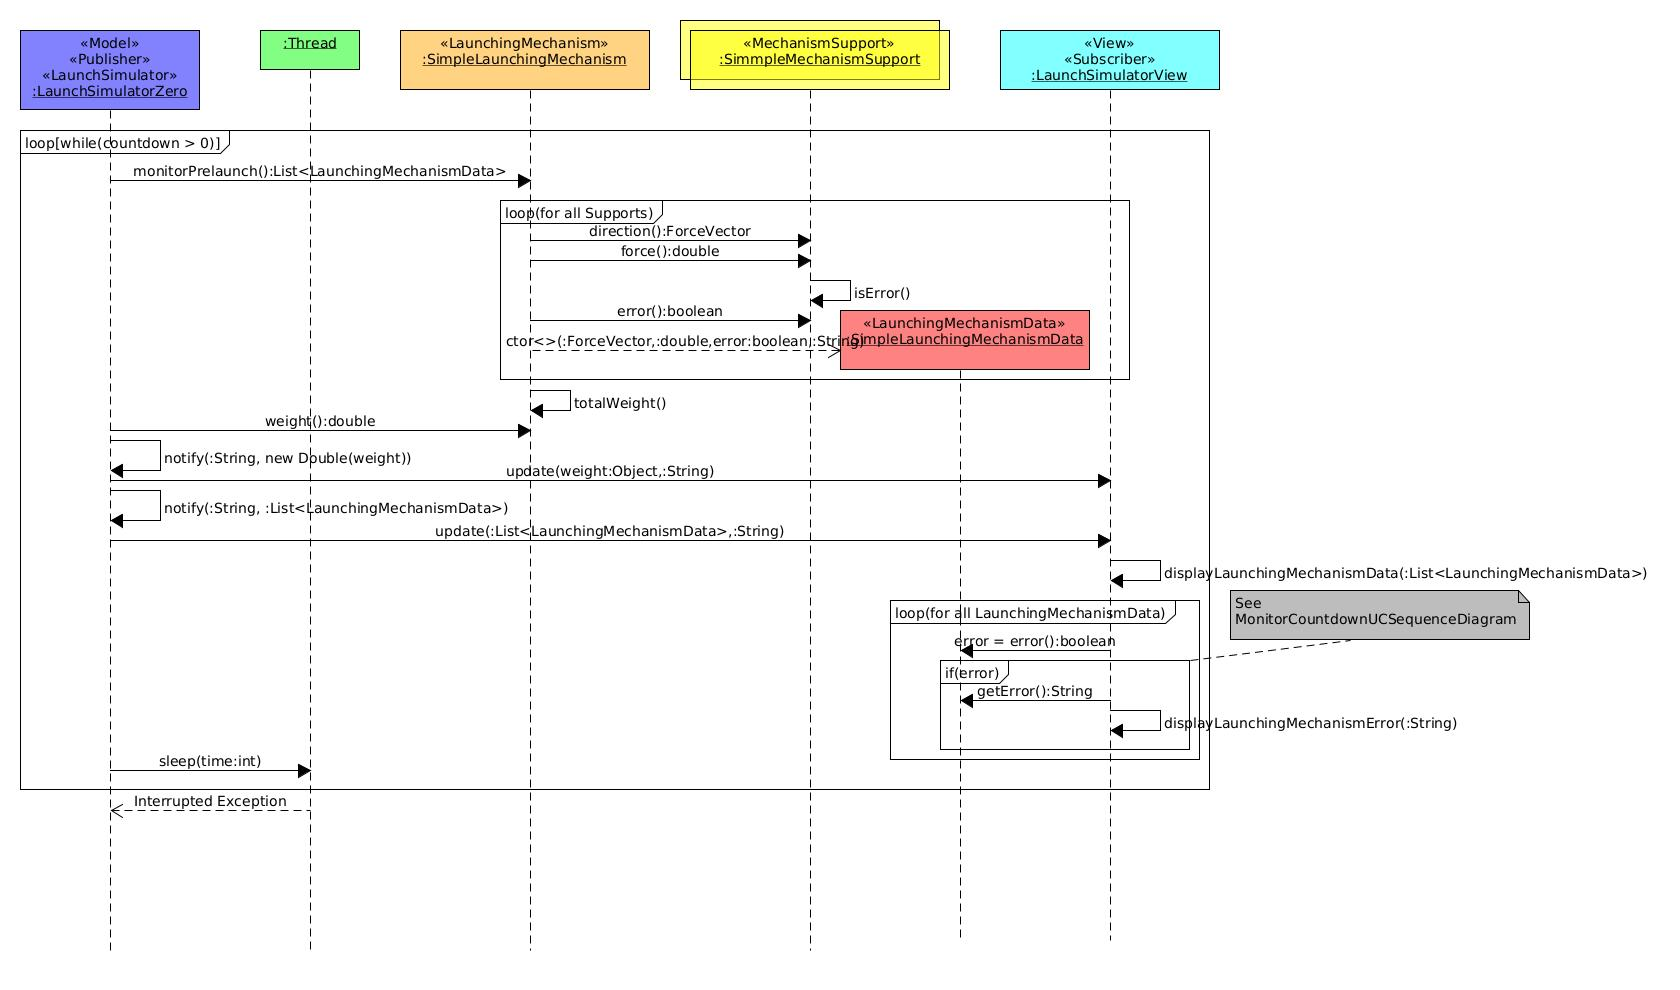
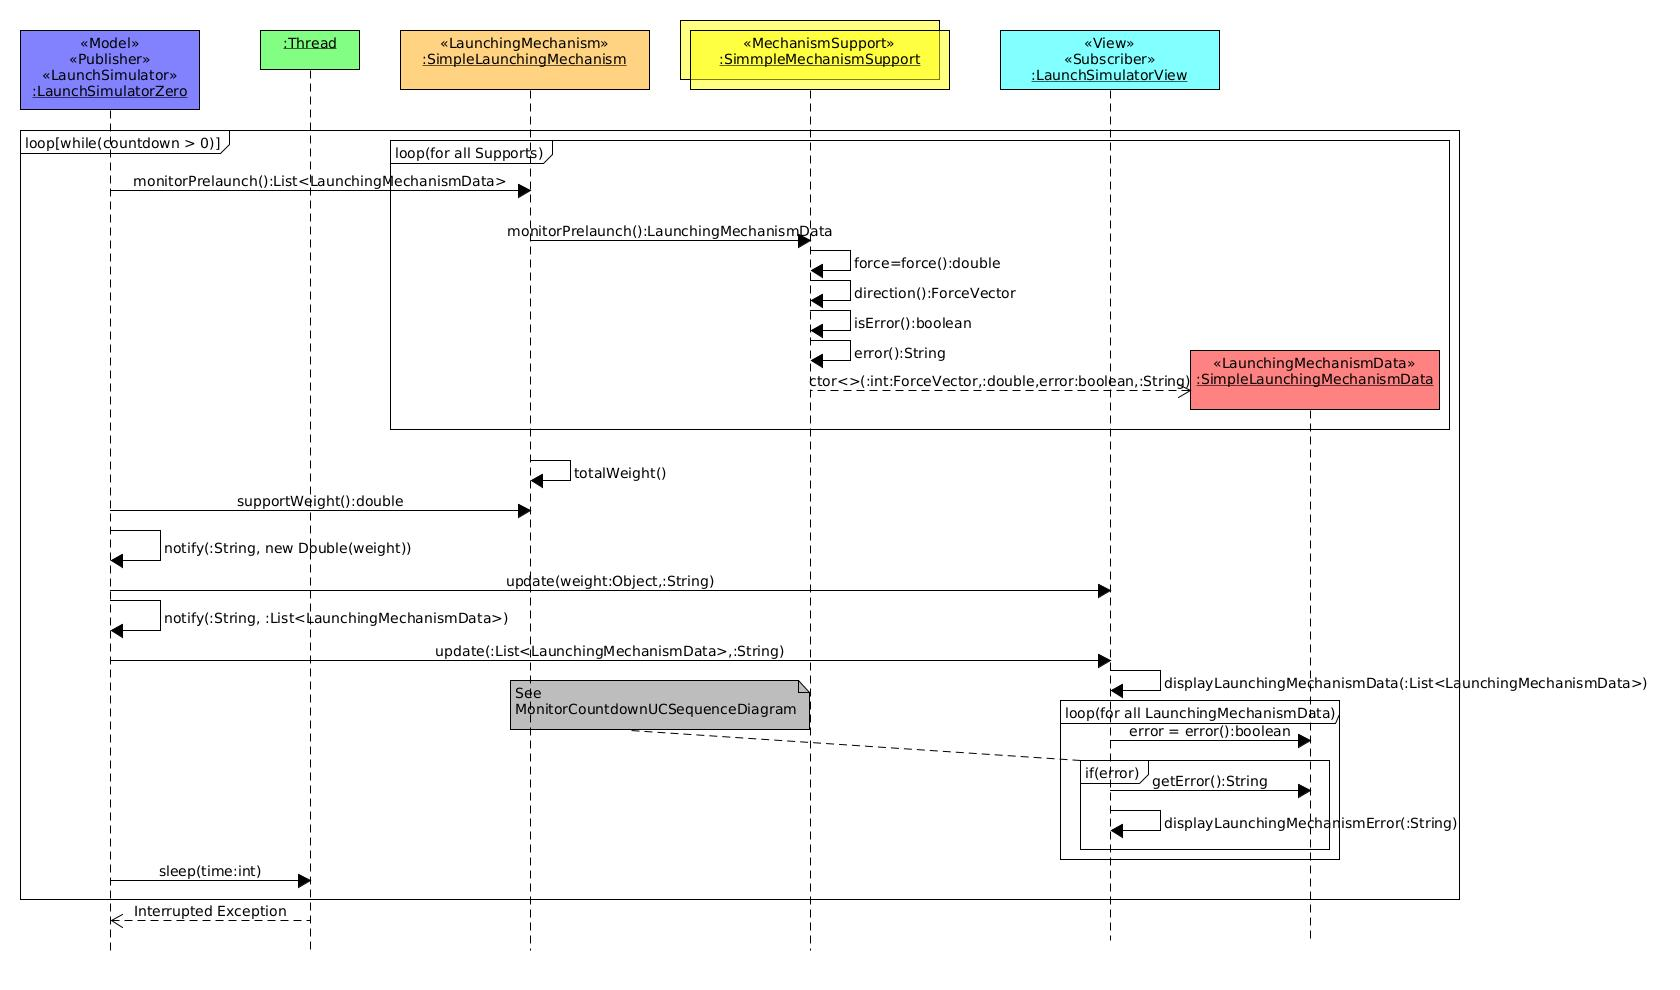
09-20-24-01

diff --git a/SimpleMechanismSupport.java b/SimpleMechanismSupport.java
@@ -22,8 +22,10 @@ import java.util.*;
 import rosas.lou.runnables.*;
 
 public class SimpleMechanismSupport implements MechanismSupport{
-   private int    _id            = -1;
-   private double _supportWeight = 0.;
+   private int     _id            = -1;
+   private double  _supportWeight = 0.;
+   private String  _error         = null;
+   private boolean _isError       = true;
 
[1 lines of base64/hex data omitted]
    //
@@ -43,6 +45,13 @@ public class SimpleMechanismSupport implements MechanismSupport{
       return s;
    }
    ////////////////////////Private Methods////////////////////////////
+   //
+   //
+   //
+   private String error(){
+      return this._error;
+   }
+
    //This is where you "measure" the force
    //
    //
@@ -68,8 +77,8 @@ public class SimpleMechanismSupport implements MechanismSupport{
    //
    //
    //
-   private boolean error(){
-      return true;
+   private boolean isError(){
+      return this._isError;
    }
 
    /////////////////MechanismSupport Implementation///////////////////

diff --git a/SimpleLaunchingMechanismData.java b/SimpleLaunchingMechanismData.java
@@ -39,7 +39,10 @@ implements LaunchingMechanismData{
    public ForceVector direction(){ return null; }
 
    /**/
-   public boolean error(){ return true; }
+   public String error(){ return "Error"; }
+
+   /**/
+   public boolean isError(){ return true; }
 
    /**/
    public double force(){ return 0.0; }

diff --git a/LaunchingMechanism.java b/LaunchingMechanism.java
@@ -27,6 +27,7 @@ public interface LaunchingMechanism{
    public List<LaunchingMechanismData> monitorIgnition();
    public List<LaunchingMechanismData> monitorLaunch();
    public void release();
+   public double supportWeight();
 }
 
 //////////////////////////////////////////////////////////////////////

diff --git a/LaunchingMechanismData.java b/LaunchingMechanismData.java
@@ -24,7 +24,8 @@ import rosas.lou.clock.*;
 
 public interface LaunchingMechanismData{
    public ForceVector direction();
-   public boolean error();
+   public String error();
+   public boolean isError();
    public double force();
    public int id();
 }

diff --git a/SimpleLaunchingMechanism.java b/SimpleLaunchingMechanism.java
@@ -138,6 +138,13 @@ Runnable{
    //
    public void release(){}
 
+   //
+   //
+   //
+   public double supportWeight(){
+      return -1.;
+   }
+
    //////////////////Runnable Interface Implementation////////////////
    //
    //
